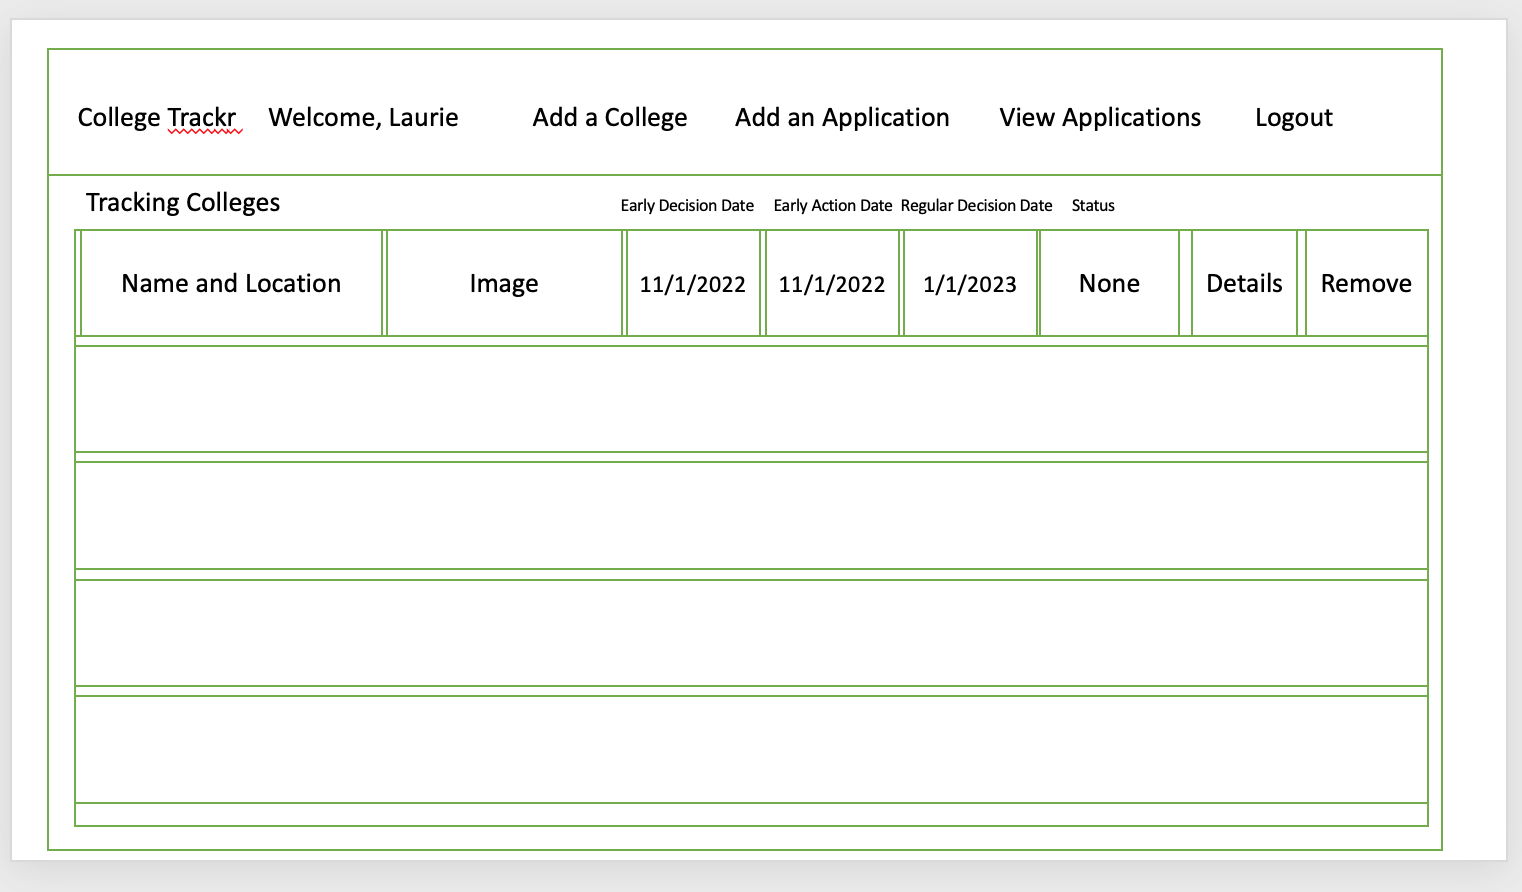
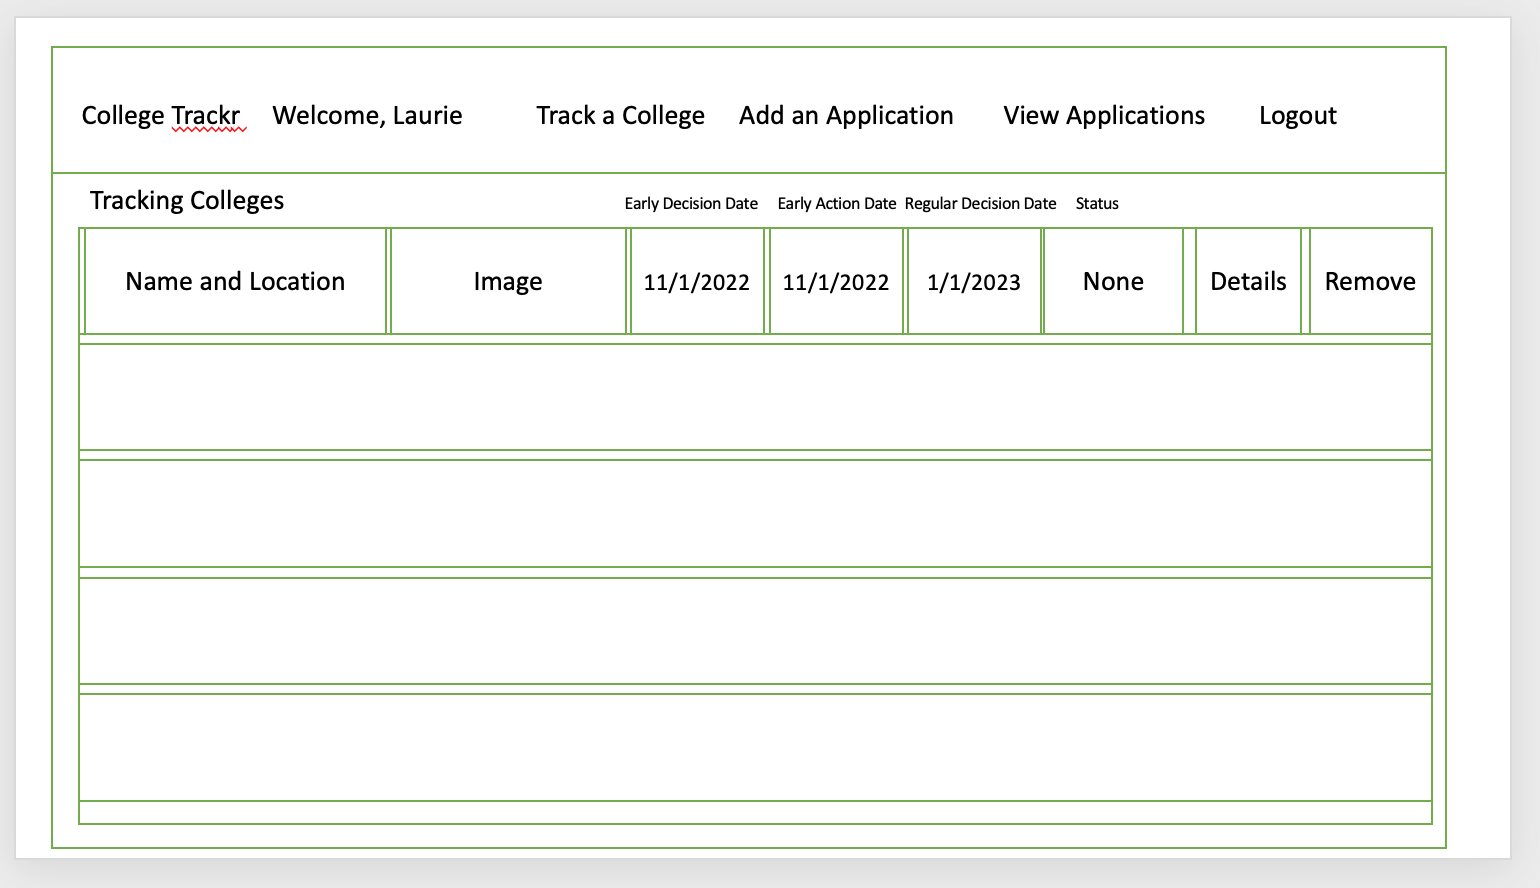
Adding new wireframes and modifications to README

diff --git a/README.md b/README.md
@@ -7,19 +7,21 @@ Parents and Students can save the colleges they've selected, track the college a
 
 # MVP Goals
 - Create a profile - signup/login
-- Select Colleges you are interesting in applying to.
-- Add a College/School/Bootcamp you are interested in applying to.
-- View your Colleges you are interested in applying to.
-- Show the College you are interested in applying to.
+- Select Colleges you are interesting in applying to and tracking.
+- Add a College/School/Bootcamp you are interested in applying to if it does not exist.
+- View your Colleges you are tracking.
+- Show a specific College you are interested in applying to.
 - Add an Application to a College you are applying to.
+- View an Application to a College you are applying to.
 - Edit an Application to a College you are applying to.
 - Delete an Application to a College you are no longer interested in applying to.
 - View all Applications to all Colleges you are applying or have applied to.
 - View all Tasks you can add for an Application.
-- Add a Task you need for an Application.
-- Track Tasks you are still working on. Color code them like Sticky Notes.
+- Add Task(s) you need for an Application.
 - Create a Task you need for an Application.
+- Track Tasks via the application/college you are still working on. Color code them like Sticky Notes.
 - Delete a Task you no longer need for an Application.
+- Present a Status of the Application, making sure it is incomplete if mandatory Tasks are not complete.
 
 # Stretch Goals
 - Add in Tracking Sending Scores from standardized tests, transcripts, AP, IB and community
@@ -59,6 +61,12 @@ Parents and Students can save the colleges they've selected, track the college a
 
 ## CollegeTrackr
 ![Index](assets/index.png)
+
+## Track Colleges
+![TrackColleges](assets/trackcolleges.png)
+
+## College Tracking Full Details
+![TrackCollegeDetails](assets/collegetrackingdetails.png)
 
 # ERD
 ![ERD](assets/collegetrackr_erd.png)
